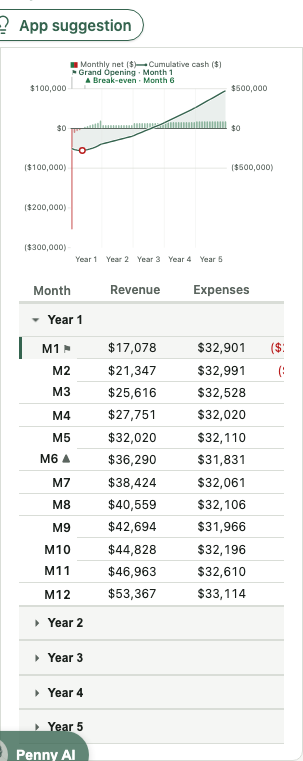
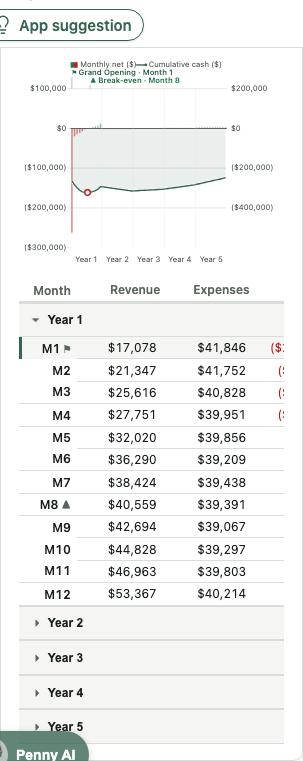
test(e2e): plot→row hover + tap-to-pin e2e; evidence regenerated from the 60%-labor canonical default
Adds the plot→row direction the review flagged (hover the scrubber rect at a
known month band → the linked table row highlights + crosshair/point/tooltip;
moving bands moves the link) and a click-to-pin flow (pin survives the pointer
leaving; second click unpins) — the row→chart direction was already covered,
so the bidirectional requirement is now asserted end-to-end in both directions
at 1440/768/375.

Evidence screenshots are now taken from a FRESH 60%-LABOR projection created
through the real POST /api/projections (the seeded `example` is the 40%
design-parity twin, which masked review-C1: payback resolves and cumulative
recovers past $0 there). The screenshot test doubles as a real-browser C1
regression: it asserts the canonical payback-N/A shape renders 60 VARYING net
bars (max height > 20 viewBox units), then archives the module screenshot,
replacing the 40%-twin evidence set.

diff --git a/e2e/cashflow-module.spec.ts b/e2e/cashflow-module.spec.ts
@@ -5,10 +5,13 @@ import { fileURLToPath } from "node:url";
 import { expect, test } from "@playwright/test";
 
 // E2E — the redesigned "Cash flow" module (spec 2026-07-04): the dual-axis chart
-// + year-grouped expand/collapse monthly table + CSV export, driven against the
-// REAL booted app on the seeded `example` projection (full 60-month series, terms
-// already accepted at seed). Runs at 1440 / 768 / 375 (the three Playwright
-// projects) and archives a module screenshot per viewport as design evidence.
+// + year-grouped expand/collapse monthly table + CSV export + BIDIRECTIONAL
+// plot↔row hover + tap-to-pin, driven against the REAL booted app. Interaction
+// tests run on the seeded `example` (stable slug/milestones); the evidence
+// screenshots are taken from a FRESH 60%-LABOR projection — the canonical
+// product-default shape (payback N/A → cumulative never recovers past $0),
+// which is exactly the shape review-C1 proved degenerate before the fix. Runs
+// at 1440 / 768 / 375 (the three Playwright projects).
 const here = dirname(fileURLToPath(import.meta.url));
 const ASSETS = join(here, "..", "docs", "plans", "assets", "2026-07-04-cashflow-redesign");
 
@@ -17,6 +20,31 @@ const VIEWPORT_TAG: Record<string, string> = {
   "desktop-1440": "1440",
   "tablet-768": "768",
   "mobile-375": "375",
+};
+
+// The canonical 60%-labor House-of-Hope shape (mirrors the backend test body +
+// the engine golden house_of_hope_canonical_60.json). terms_accepted so the CSV
+// link is live on the created projection too.
+const CANONICAL_60_BODY = {
+  name: "Canonical Sixty Labor",
+  inputs: {
+    org_name: "Canonical Sixty Labor",
+    city: "Longview, Texas",
+    opening_status: "pre_launch",
+    share_y1: "0.06",
+    share_y2: "0.08",
+    share_y3: "0.10",
+    donation_value: "74",
+    building_sqft: "10000",
+    salesfloor_pct: "0.70",
+    source_of_funds: "300000",
+    occupancy_annual: "120000",
+    lease_type: "nnn",
+    nnn_opex_annual: "0",
+  },
+  trade_area: { basis: "city", households: "31798" },
+  assumptions: { labor_pct: "0.60" },
+  terms_accepted: true,
 };
 
 test.describe("cash-flow module", () => {
@@ -49,6 +77,41 @@ test.describe("cash-flow module", () => {
     await expect(page.locator(".cashflow-chart__crosshair")).toHaveCount(1);
   });
 
+  test("hovering the plot highlights the corresponding table row (plot -> row link, review C2)", async ({ page }) => {
+    const scrubber = page.getByTestId("cashflow-scrubber");
+    await scrubber.scrollIntoViewIfNeeded();
+    const box = (await scrubber.boundingBox())!;
+    // The seeded example is a 60-month series; aim at the CENTER of month 1's band.
+    await page.mouse.move(box.x + box.width * (0.5 / 60), box.y + box.height / 2);
+    await expect(page.getByTestId("cashflow-month-1")).toHaveClass(/cashflow-table__row--active/);
+    await expect(page.locator(".cashflow-chart__point")).toHaveCount(1);
+    await expect(page.locator(".cashflow-chart__crosshair")).toHaveCount(1);
+    await expect(page.getByTestId("cashflow-tooltip")).toBeVisible();
+    // Move to month 3's band — the linked highlight follows.
+    await page.mouse.move(box.x + box.width * (2.5 / 60), box.y + box.height / 2);
+    await expect(page.getByTestId("cashflow-month-3")).toHaveClass(/cashflow-table__row--active/);
+    await expect(page.getByTestId("cashflow-month-1")).not.toHaveClass(/cashflow-table__row--active/);
+  });
+
+  test("click pins the readout; it survives the pointer leaving; second click unpins (review I1)", async ({ page }) => {
+    const scrubber = page.getByTestId("cashflow-scrubber");
+    await scrubber.scrollIntoViewIfNeeded();
+    const box = (await scrubber.boundingBox())!;
+    const month2X = box.x + box.width * (1.5 / 60);
+    const midY = box.y + box.height / 2;
+    await page.mouse.click(month2X, midY);
+    await expect(page.getByTestId("cashflow-month-2")).toHaveClass(/cashflow-table__row--active/);
+    // Leave the plot entirely — a PIN persists (a transient hover would clear).
+    await page.mouse.move(box.x - 40, Math.max(0, box.y - 40));
+    await expect(page.getByTestId("cashflow-month-2")).toHaveClass(/cashflow-table__row--active/);
+    await expect(page.getByTestId("cashflow-tooltip")).toBeVisible();
+    // Second tap on the same month unpins + dismisses.
+    await page.mouse.click(month2X, midY);
+    await page.mouse.move(box.x - 40, Math.max(0, box.y - 40));
+    await expect(page.getByTestId("cashflow-month-2")).not.toHaveClass(/cashflow-table__row--active/);
+    await expect(page.getByTestId("cashflow-tooltip")).toHaveCount(0);
+  });
+
   test("the CSV button downloads a '… Cash Flow.csv' file", async ({ page }) => {
     const csv = page.getByTestId("cashflow-export");
     await expect(csv).toBeVisible();
@@ -59,8 +122,29 @@ test.describe("cash-flow module", () => {
     ]);
     expect(download.suggestedFilename()).toMatch(/Cash Flow\.csv$/);
   });
+});
 
-  test("archives a module screenshot for this viewport", async ({ page }, testInfo) => {
+test.describe("evidence screenshots — canonical 60%-labor default", () => {
+  test("the canonical default renders visible, varying net bars; archive the module screenshot", async ({ page }, testInfo) => {
+    // Create the 60%-labor projection through the REAL create endpoint (the
+    // seeded `example` is the 40% design-parity twin, which masked review-C1).
+    const resp = await page.request.post("/api/projections", { data: CANONICAL_60_BODY });
+    expect(resp.status()).toBe(201);
+    const { view_slug } = await resp.json();
+    await page.goto(`/p/${view_slug}`);
+    await expect(page.getByTestId("cashflow-module")).toBeVisible();
+    await expect(page.getByTestId("cashflow-chart")).toBeVisible();
+
+    // Real-browser C1 regression: on the payback-N/A default the net bars must
+    // NOT collapse to the 0.5px degenerate floor — they vary and the month-1
+    // startup-loss bar is tall (heights are viewBox units).
+    const heights = await page
+      .locator(".cashflow-chart__bar")
+      .evaluateAll((els) => els.map((e) => parseFloat(e.getAttribute("height") || "0")));
+    expect(heights).toHaveLength(60);
+    expect(new Set(heights.map((h) => h.toFixed(1))).size).toBeGreaterThan(1);
+    expect(Math.max(...heights)).toBeGreaterThan(20);
+
     mkdirSync(ASSETS, { recursive: true });
     const tag = VIEWPORT_TAG[testInfo.project.name] ?? testInfo.project.name;
     const module = page.getByTestId("cashflow-module");
